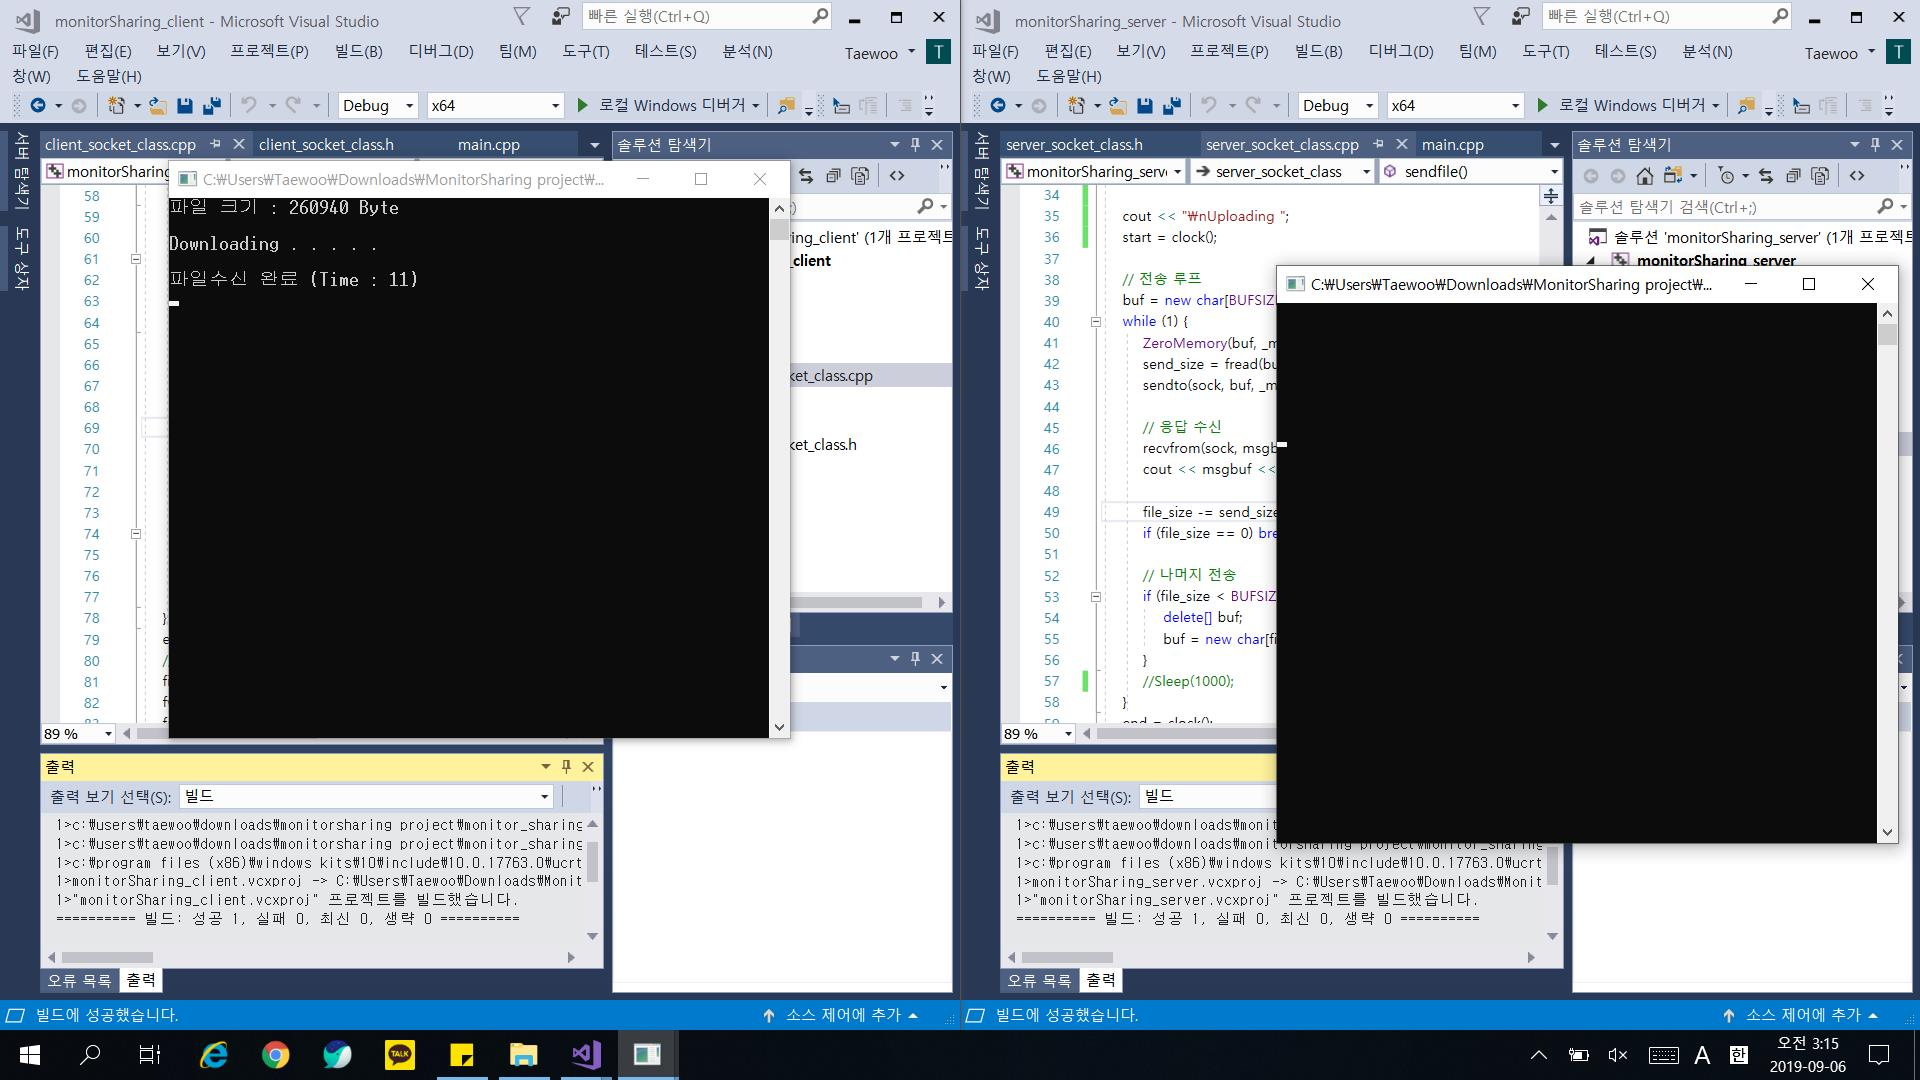
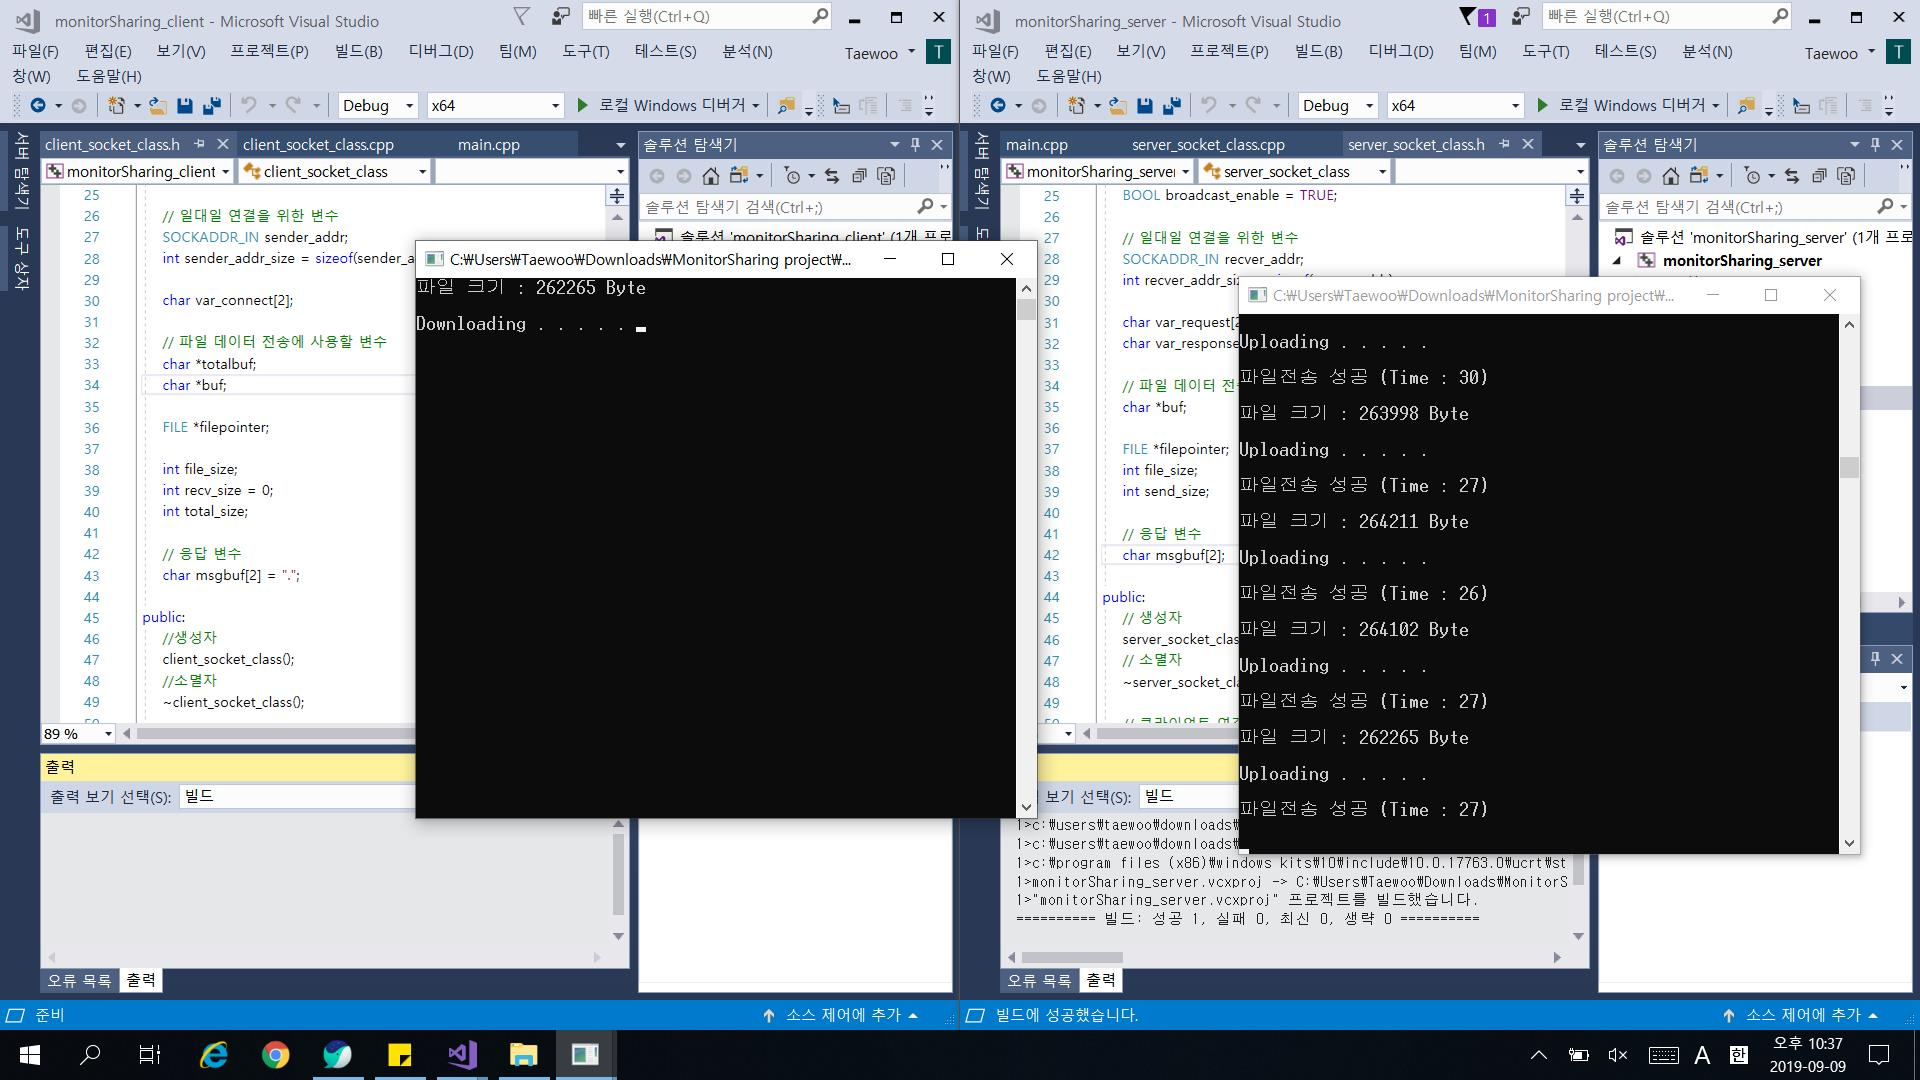
v20190909_client_server_c++

diff --git a/monitorSharing_server/monitorSharing_server/main.cpp b/monitorSharing_server/monitorSharing_server/main.cpp
@@ -1,17 +1,19 @@
 #include "server_socket_class.h"
 #include <Windows.h>
+#include <gdiplusbitmap.h>
 
 void ScreenCapture() {
 	HDC HandleDC = GetWindowDC(NULL);
 	CImage imageObject;
+	
 	::SetThreadDpiAwarenessContext(DPI_AWARENESS_CONTEXT_SYSTEM_AWARE);
 
 	int cx = GetSystemMetrics(SM_CXSCREEN);
 	int cy = GetSystemMetrics(SM_CYSCREEN);
 	int colorDepth = GetDeviceCaps(HandleDC, BITSPIXEL);
 
-	imageObject.Create(cx, cy, colorDepth, 0);
-	BitBlt(imageObject.GetDC(), 0, 0, cx, cy, HandleDC, 0, 0, SRCCOPY);
+	imageObject.Create(cx, cy, colorDepth);
+	StretchBlt(imageObject.GetDC(), 0, 0, cx, cy, HandleDC, 0, 0, cx, cy, SRCCOPY);
 
 	imageObject.Save(L"ScreenCapture.jpeg", Gdiplus::ImageFormatJPEG);
 
@@ -23,15 +25,16 @@ int main() {
 	server_socket_class server_socket_object;
 
 	char c_input = NULL;
-	while (1) {
 	cout << "> ";
 	cin >> c_input;
-		if (c_input == 's') {
-			system("cls");
-		//while (1) {
+	if (c_input == 's') {
+		system("cls");
+		server_socket_object.connect_client();
+		while (1) {
 			ScreenCapture();
 			server_socket_object.sendfile();
 		}
 	}
+
 	return 0;
 }

diff --git a/monitorSharing_client/monitorSharing_client/main.cpp b/monitorSharing_client/monitorSharing_client/main.cpp
@@ -15,14 +15,17 @@ void image_viewer() {
 	resize(origin_img, resizing_img, Size(GetSystemMetrics(SM_CXSCREEN) / 2, GetSystemMetrics(SM_CYSCREEN) / 2), 0, 0, CV_INTER_LINEAR);
 	imshow("viewer", resizing_img);
 
-	waitKey(10);
+	waitKey(1);
 }*/
 
 int main() {
 	client_socket_class client_socket_object;
+
+	client_socket_object.connect_server();
 	while (1) {
 		client_socket_object.recvfile();
 		//image_viewer();
 	}
+
 	return 0;
 }
